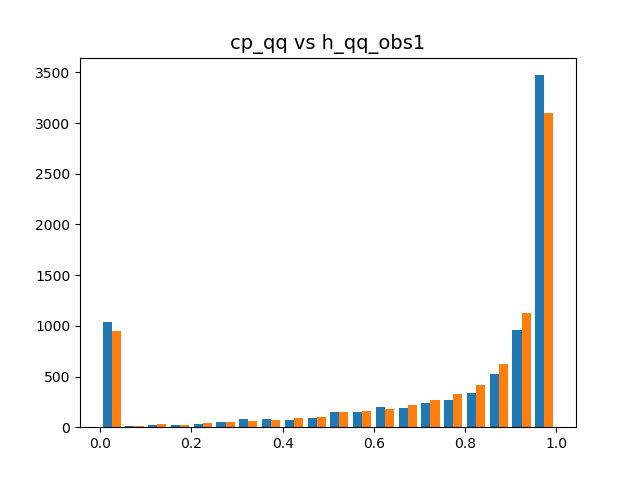
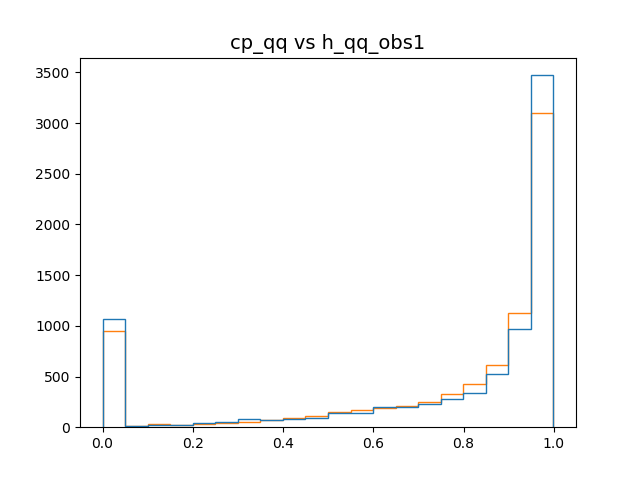
null hypothesis added

Changed region(s): [[0.125, 0.1562, 0.9062, 0.9375]]

diff --git a/final_scripts/pipeline.py b/final_scripts/pipeline.py
@@ -135,7 +135,7 @@ def do_hyptest():
 def do_histos():
     def hist(x, title):
         plt.clf()
-        plt.hist(x, bins = 20)
+        plt.hist(x, bins = 20, histtype=u'step')
         plt.title(title, fontsize=14)
         plt.savefig('final_curves/hists/'+title)
 
@@ -167,6 +167,6 @@ def do_histos():
             hist([sig_obs[:, 3], bg_obs[:, 3]], name+'obs4')
 
 if __name__ == '__main__':
-  do_hyptest()
+  do_histos()
         
 
